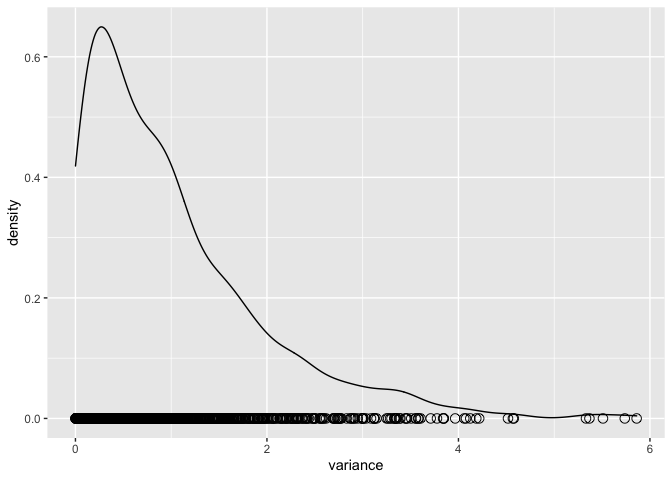
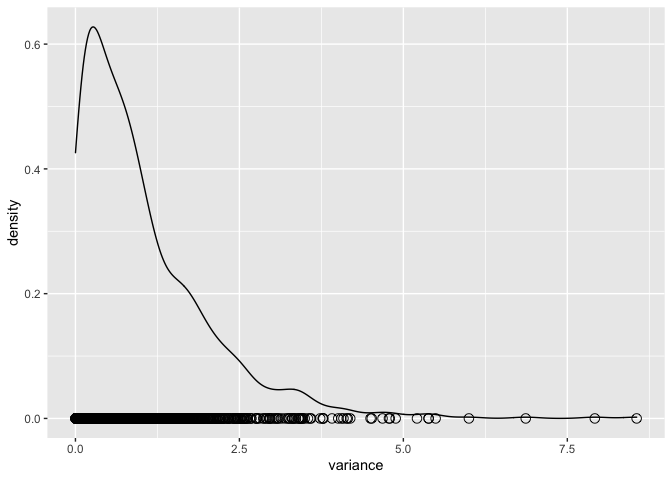
set seed for reproducibility

diff --git a/seminars/seminars_winter_2021/seminar5/sm5_differential_expression_analysis.md b/seminars/seminars_winter_2021/seminar5/sm5_differential_expression_analysis.md
@@ -928,6 +928,8 @@ variance for each gene give the three samples. Finally, we look at the
 distribution of these variance estimates.
 
 ``` r
+set.seed(124)
+
 numberOfGenes <- 1000
 numberOfSamples <- 3
 
@@ -936,13 +938,13 @@ simulatedGeneExpressionMatrix <- matrix(rnorm(numberOfGenes * numberOfSamples), 
 simulatedGeneExpressionMatrix %>% head()
 ```
 
-    ##            [,1]       [,2]        [,3]
-    ## [1,] -2.1280312 -1.8006158  0.01210885
-    ## [2,]  0.1576077  0.7085329  0.54014452
-    ## [3,]  1.3556714 -0.2323843  0.60467451
-    ## [4,] -0.8613707  0.1070527  0.28900577
-    ## [5,] -1.0030138 -0.2135726  0.24401452
-    ## [6,]  0.5863775 -0.6492224 -0.22785252
+    ##             [,1]        [,2]       [,3]
+    ## [1,] -1.38507062  0.70180178  0.2738433
+    ## [2,]  0.03832318  0.04880097  0.6606339
+    ## [3,] -0.76303016 -0.58629974 -0.9780842
+    ## [4,]  0.21230614  1.31636967  0.7355453
+    ## [5,]  1.42553797 -0.73749023  0.6788724
+    ## [6,]  0.74447982 -1.31000858 -0.6006028
 
 ``` r
 geneVars <- simulatedGeneExpressionMatrix %>% apply(1, var) # work out the variance for each gene
@@ -1031,7 +1033,7 @@ Introduction to Statistical
 Learning](http://www-bcf.usc.edu/~gareth/ISL/index.html) by Gareth et
 al. 
 
-NBefore we actually construct the design matrix, there is one thing we
+Before we actually construct the design matrix, there is one thing we
 need to check. That is, the samples are ordered identically in the
 samples metadata data frame as well as the expression matrix. The design
 matrix is constructed based on the order of the samples metadata data
@@ -1121,6 +1123,22 @@ wildTypeDevStageFit <- lmFit(wildTypeExpressionMatrix, designMatrix)
 wildTypeDevStageFitEb <- eBayes(wildTypeDevStageFit)
 ```
 
+Note that `limma` is a Bioconductor package and is actually compatible
+with storing the data the “Bioconductor way”, so we don’t need to put
+the expression data into the tidy long format like we did with `lm`. In
+fact, we actually don’t even need to pull out the expression matrix from
+the `ExpressionSet` object – `limma` can do that on its own. Here we
+check that we get the same results for both types of input.
+
+``` r
+wildTypeDevStageFit_eset <- lmFit(eset[,wildTypeMetadata$sample_id],
+                                       designMatrix)
+
+identical(wildTypeDevStageFit, wildTypeDevStageFit_eset)
+```
+
+    ## [1] TRUE
+
 ### topTable() is your best friend
 
 Now we’ve fit the models. We can start going through the differentially
@@ -1204,7 +1222,7 @@ topGenesExpressionData %>%
   facet_wrap(~gene)
 ```
 
-![](sm5_differential_expression_analysis_files/figure-gfm/unnamed-chunk-27-1.png)<!-- -->
+![](sm5_differential_expression_analysis_files/figure-gfm/unnamed-chunk-28-1.png)<!-- -->
 
 What do you think? Does it look plausible to you that these genes are
 differentially expressed across developmental stages?
@@ -1234,7 +1252,7 @@ plotGenes <- function(genes, exprset) {
 plotGenes(topGenes, eset[, eset$genotype == "WT"])
 ```
 
-![](sm5_differential_expression_analysis_files/figure-gfm/unnamed-chunk-28-1.png)<!-- -->
+![](sm5_differential_expression_analysis_files/figure-gfm/unnamed-chunk-29-1.png)<!-- -->
 
 OK, now let’s use topTable() again to find some boring(insignificant)
 genes.
@@ -1285,7 +1303,7 @@ ourselves.
 plotGenes(rownames(boringGenes), eset[, eset$genotype == "WT"])
 ```
 
-![](sm5_differential_expression_analysis_files/figure-gfm/unnamed-chunk-30-1.png)<!-- -->
+![](sm5_differential_expression_analysis_files/figure-gfm/unnamed-chunk-31-1.png)<!-- -->
 
 Are you convinced?? I hope so!
 
@@ -1392,7 +1410,7 @@ contrastGenes
 plotGenes(rownames(contrastGenes)[1:6], eset[, eset$genotype == "WT"])
 ```
 
-![](sm5_differential_expression_analysis_files/figure-gfm/unnamed-chunk-32-1.png)<!-- -->
+![](sm5_differential_expression_analysis_files/figure-gfm/unnamed-chunk-33-1.png)<!-- -->
 
 So far, so good. These 6 probes show little expression change from P6 to
 P10 and a strong increase from P10 to 4\_weeks. I would like to find
@@ -1442,7 +1460,7 @@ hits1
 plotGenes(hits1$gene, eset[, eset$genotype == "WT"])
 ```
 
-![](sm5_differential_expression_analysis_files/figure-gfm/unnamed-chunk-34-1.png)<!-- -->
+![](sm5_differential_expression_analysis_files/figure-gfm/unnamed-chunk-35-1.png)<!-- -->
 
 Here are 4 of the 8 that decline from P10 to 4\_weeks.
 
@@ -1471,7 +1489,7 @@ hits2
 plotGenes(hits2$gene[1:4], eset[, eset$genotype == "WT"])
 ```
 
-![](sm5_differential_expression_analysis_files/figure-gfm/unnamed-chunk-35-1.png)<!-- -->
+![](sm5_differential_expression_analysis_files/figure-gfm/unnamed-chunk-36-1.png)<!-- -->
 
 Is there any overlap between these probes?
 
@@ -1531,46 +1549,6 @@ interactionSamples
     ## GSM92636  GSM92636       E16       WT
 
 ``` r
-# reminder of what expression matrix looks like
-exprs(eset)[1:5, 1:4]
-```
-
-    ##              GSM92610 GSM92611  GSM92612 GSM92613
-    ## 1415670_at   7.108863 7.322392  7.420947 7.351444
-    ## 1415671_at   9.714002 9.797742  9.831072 9.658442
-    ## 1415672_at   9.429030 9.846977 10.003092 9.914112
-    ## 1415673_at   8.426974 8.404206  8.594600 8.404206
-    ## 1415674_a_at 8.498338 8.458287  8.426651 8.372776
-
-``` r
-# reuse getExpressionForSamples() to get expression data for the samples that we want
-expressionDataForInteractionSamples <- exprs(eset[, interactionSamples$sample_id])
-head(expressionDataForInteractionSamples)
-```
-
-    ##              GSM92610 GSM92611  GSM92612 GSM92613  GSM92614  GSM92615 GSM92616
-    ## 1415670_at   7.108863 7.322392  7.420947 7.351444  7.240428  7.336860 7.382548
-    ## 1415671_at   9.714002 9.797742  9.831072 9.658442  9.708906 10.030904 7.636955
-    ## 1415672_at   9.429030 9.846977 10.003092 9.914112 10.174548 10.242718 8.422627
-    ## 1415673_at   8.426974 8.404206  8.594600 8.404206  8.835334  8.371316 8.362592
-    ## 1415674_a_at 8.498338 8.458287  8.426651 8.372776  8.541722  8.892941 8.509461
-    ## 1415675_at   9.739536 9.508494  9.598063 9.454508  9.672208  9.613500 9.655965
-    ##              GSM92629 GSM92630 GSM92631 GSM92632  GSM92633  GSM92634  GSM92635
-    ## 1415670_at   7.249942 7.034715 7.131226 7.374397  7.413965  7.236344  7.070270
-    ## 1415671_at   9.664297 8.381062 8.730366 9.435807 10.016159  9.477942 10.125344
-    ## 1415672_at   9.514345 9.206305 9.525853 9.484793 10.041910 10.013613  9.907014
-    ## 1415673_at   8.491196 8.753887 8.647076 8.494675  8.374498  8.362059  8.486530
-    ## 1415674_a_at 8.418862 8.256568 8.283164 8.339452  8.615350  8.585476  8.641078
-    ## 1415675_at   9.669490 9.547021 9.454296 9.327131  9.718741  9.590773  9.699846
-    ##              GSM92636
-    ## 1415670_at   7.168648
-    ## 1415671_at   9.853912
-    ## 1415672_at   9.913023
-    ## 1415673_at   8.403623
-    ## 1415674_a_at 8.520345
-    ## 1415675_at   9.708509
-
-``` r
 # construct the design matrix to include all groups for genotype and developmental stages plus the interaction terms
 interactionDesign <- model.matrix(~genotype*dev_stage, interactionSamples)
 
@@ -1617,7 +1595,8 @@ Let’s try and find these genes!
 
 ``` r
 # first fit the model
-interactionFit <- lmFit(expressionDataForInteractionSamples, interactionDesign) %>% eBayes()
+interactionFit <- lmFit(eset[, interactionSamples$sample_id],
+                        interactionDesign) %>% eBayes()
 
 cutoff <- 1e-06
 changeDirections <- decideTests(interactionFit, p.value = cutoff, method = "global") %>% 
@@ -1657,7 +1636,7 @@ expressionDataForHits %>%
 
     ## `geom_smooth()` using formula 'y ~ x'
 
-![](sm5_differential_expression_analysis_files/figure-gfm/unnamed-chunk-38-1.png)<!-- -->
+![](sm5_differential_expression_analysis_files/figure-gfm/unnamed-chunk-39-1.png)<!-- -->
 
 ## Part 5: Deliverables
 
